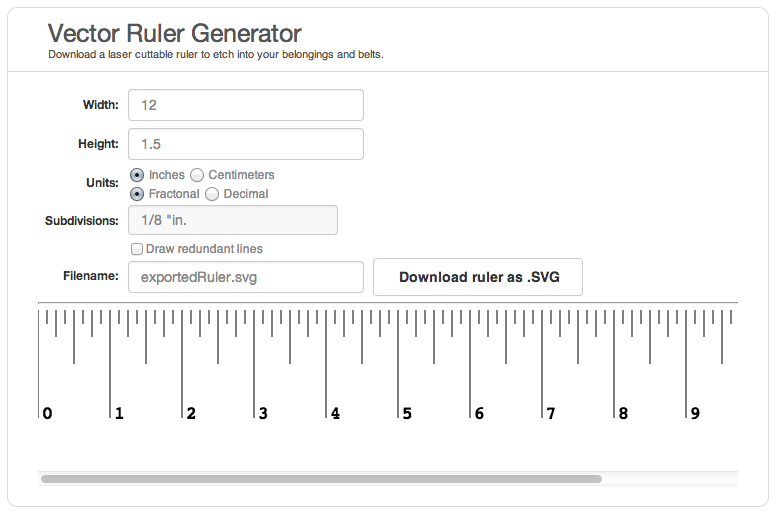
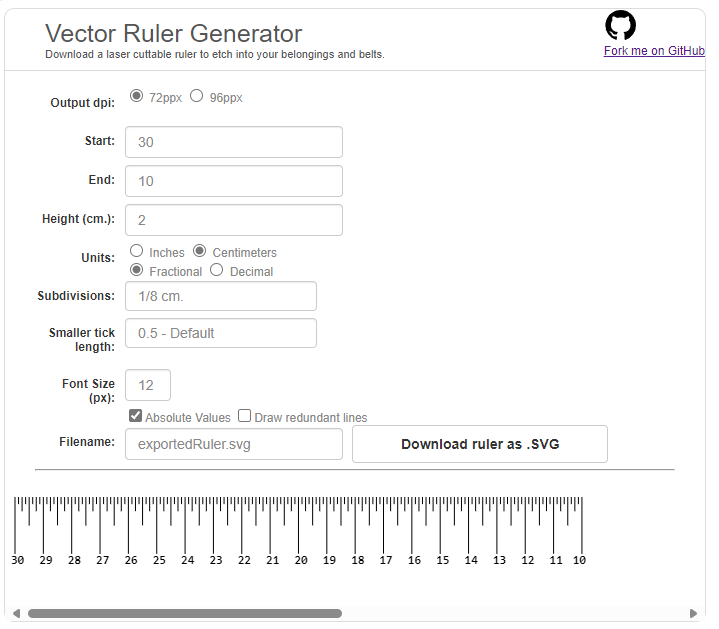
update html (bad merging code) and update applet screenshot with new functionality

Changed region(s): [[0.0, 0.0309, 0.9485, 0.9884], [0.8261, 0.0, 1.0, 0.9575], [0.9485, 0.9575, 0.9791, 0.9884]]

diff --git a/index.html b/index.html
@@ -41,10 +41,6 @@
             <span>End:</span>
             <input type="text" id="endNo" value="10">
         </label>
-        <!-- <label>
-            <span>Width:</span>
-            <input type="text"  id="rulerWidth"  value="12"  >
-        </label> -->
         <label>
             <span id="heightTitle">Height (in.):</span>
             <input type="text"  id="rulerHeight" value="2">
@@ -112,64 +108,6 @@
         <a href="#" id="downloadSVG">
             <input type="button" class="button" value="Download ruler as .SVG" id="svgexpbutton"> 
         </a>
-
-            <label>
-                <span>Units:</span>
-            
-                <Input type = "radio"  name="rulerUnits" value="inches" checked>
-                    Inches
-                    
-                <Input type = "radio"  name="rulerUnits" value="centimeters" >
-                    Centimeters
-            </label>
-                <br>
-            <label>
-                <span>Sub Units:</span>
-                <Input type = "radio"  name= "subUnits" value = "2"   checked>
-                    Fractional            
-                <Input type = "radio"  name= "subUnits" value = "10">
-                    Decimal
-            </label>
-                <br>
-            <label>
-                <span>Subdivisions: </span>
-                <select id="subUnitExponent"  style="width:30%" >
-                      <option value ="0">Zero</option>
-                      <option value ="1">One</option>  
-                      <option value ="2">Two</option>
-                      <option value ="3"
-                      selected          >Three</option>
-                      <option value ="4">Four</option>
-                      <option value ="5">Five</option>
-                      <option value ="6">Six </option>
-                </select>
-            </label>
-                        <label>
-                <span>Smaller tick legnth:</span>
-                <select id="levelToLevelMultiplier"  style="width:30%" >
-                      <option value ="0.1">0.1</option>
-                      <option value ="0.2">0.2</option>
-                      <option value ="0.3">0.3</option>  
-                      <option value ="0.4">0.4</option>
-                      <option value ="0.5"
-                      selected          >0.5 - Default</option>
-                      <option value ="0.6">0.6</option>
-                      <option value ="0.7">0.7</option>
-                      <option value ="0.8">0.8 </option>
-                      <option value ="0.9">0.9 </option>
-                      <option value ="1">1.0 - All ticks same size </option>
-
-                </select>
-            </label>
-            <br>            
-            <label>
-                <span>Pixel per Inch: </span>
-                <Input type = "radio" name= "ppInch" value="96" checked>
-                    96 PPI - Most browsers and programs                            
-                <Input type = "radio"  name= "ppInch" value="72" >
-                    72 PPI - Adobe Illustrator
-            </label>
-            <br>
     </form>
 
     <hr>
